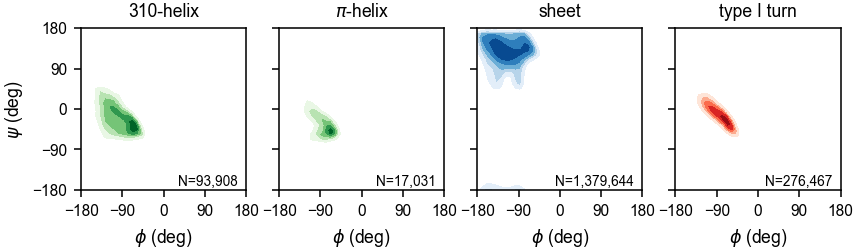
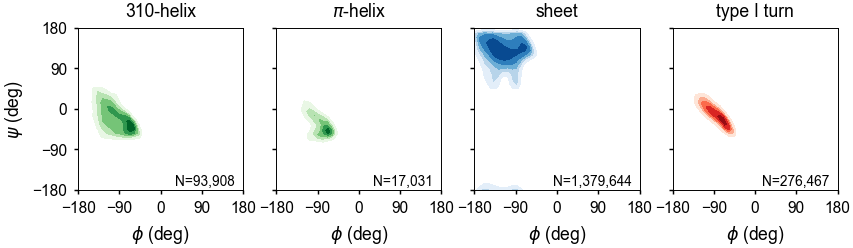
Updates to the Ramachandran contour plot formatting

diff --git a/analysis/datasets/ramachandran.py b/analysis/datasets/ramachandran.py
@@ -20,6 +20,13 @@ annotation_fontsize = 7
 
 matplotlib.rc('text', usetex=False)
 matplotlib.rc('font', family='sans-serif')
+matplotlib.rc('axes', linewidth=0.5)
+
+for i in ('xtick', 'ytick'):
+    matplotlib.rcParams[i + '.major.size'] = 2.0
+    matplotlib.rcParams[i + '.major.width'] = 0.75
+    matplotlib.rcParams[i + '.minor.size'] = 1.0
+    matplotlib.rcParams[i + '.minor.width'] = 0.5
 
 # import the dataset
 filename = '../../mollib/data/ramachandranstatistics/measurements.tar'
